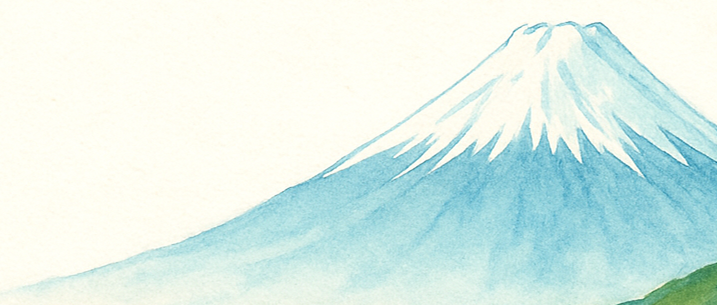
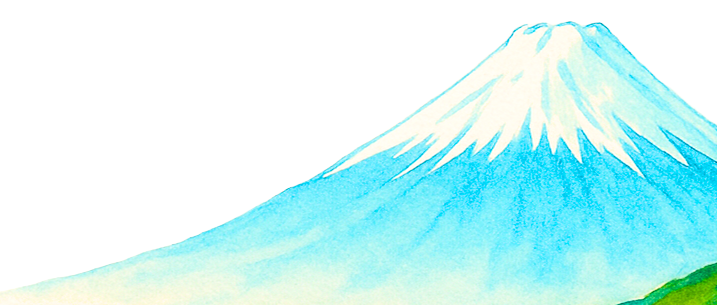
💄 Deck Card bg added

Changed region(s): [[0.2148, 0.059, 1.0, 1.0], [0.6444, 0.4131, 0.675, 0.4426], [0.6137, 0.2656, 0.6444, 0.2951]]

diff --git a/src/components/browse-decks/BrowseDecks.tsx b/src/components/browse-decks/BrowseDecks.tsx
@@ -45,6 +45,10 @@ const BrowseDecks = () => {
 
   const [isFilterBar, setIsFilterBar] = useState(false);
 
+  const getBackgroundImage = (index : number) => {
+  return `/assets/bg/bg-${(index % 3) + 1}.png`;
+};
+
   return (
     <div className="max-w-screen-md mx-auto p-6">
       <div className="flex justify-between items-center">
@@ -189,11 +193,13 @@ const BrowseDecks = () => {
             </div>
           ) : (
             <div className="grid md:grid-cols-2 gap-4">{
-              data?.decks.map((deck) => (
+              data?.decks.map((deck, i) => (
                 <Link key={deck.id} href={`/flashdecks/${deck.id}`} className="no-underline">
                   <Card shadow="sm" className="border border-default-200">
-                    <CardHeader className="font-semibold">{deck.name}</CardHeader>
-                    <CardBody>
+                    <CardHeader className="font-semibold text-dark">{deck.name}</CardHeader>
+                    <CardBody style={{ backgroundImage : `url('${getBackgroundImage(i)}')`,
+                      backgroundSize: `${(i % 3) + 1 === 3 ? '70%' : '50%'}`
+                    }} className=" bg-right-bottom bg-no-repeat">
                       <p className="text-sm text-gray-600 mb-2">{deck.description}</p>
                       <p className="text-xs text-gray-400">Level: {deck.level}</p>
                       <div className="flex gap-2 mt-2 text-xs text-orange-500 flex-wrap">
